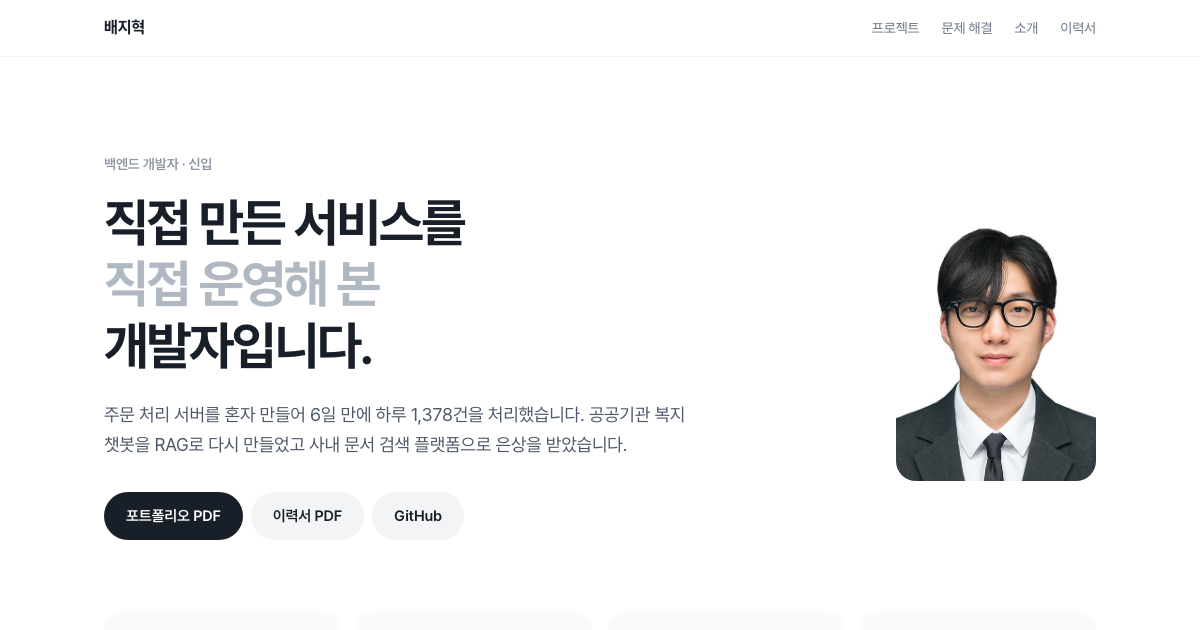
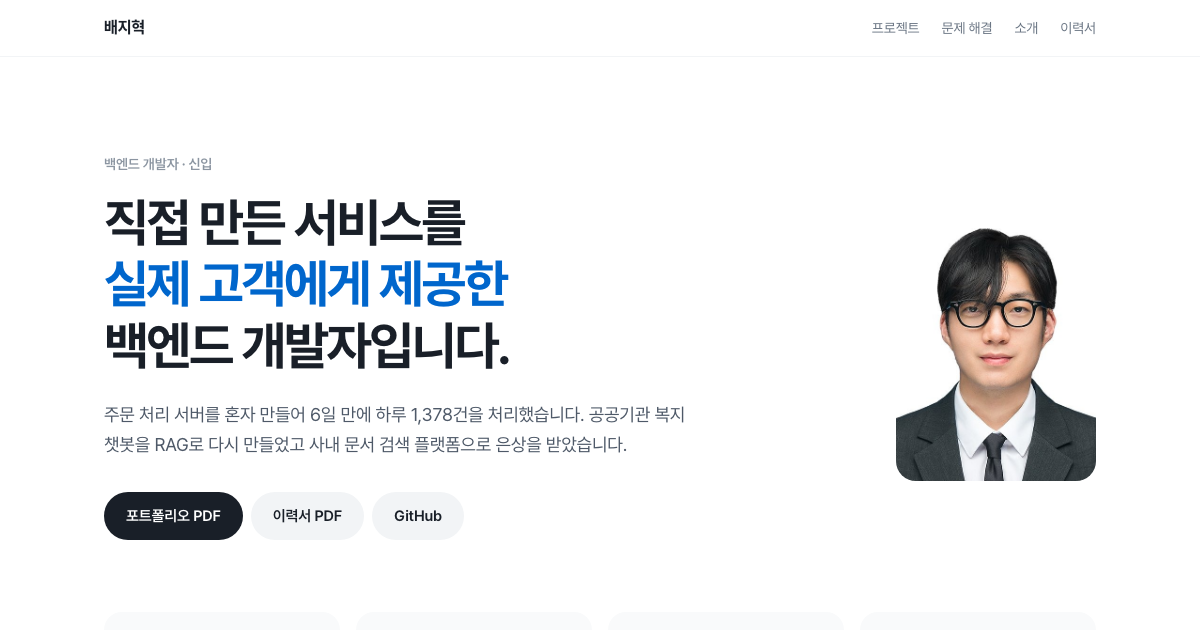
표지 문구 강조색

Changed region(s): [[0.0925, 0.3921, 0.4317, 0.6032]]

diff --git a/index.html b/index.html
@@ -25,7 +25,7 @@ header{padding:96px 0 72px}
 .hero{display:grid;grid-template-columns:1fr 200px;gap:48px;align-items:center}
 .eyebrow{color:var(--g3);font-size:14px;font-weight:600;margin-bottom:16px}
 h1{font-size:52px;line-height:1.18;letter-spacing:-0.045em;margin:0 0 24px;font-weight:700}
-h1 span{color:#b0b8c1}
+h1 span{color:var(--acc)}
 .lead{font-size:18px;color:var(--g1);margin:0 0 32px;max-width:620px}
 .btns a{display:inline-block;padding:12px 22px;border-radius:999px;text-decoration:none;font-size:15px;font-weight:600;margin:0 8px 8px 0}
 .btn-p{background:var(--ink);color:#fff}
